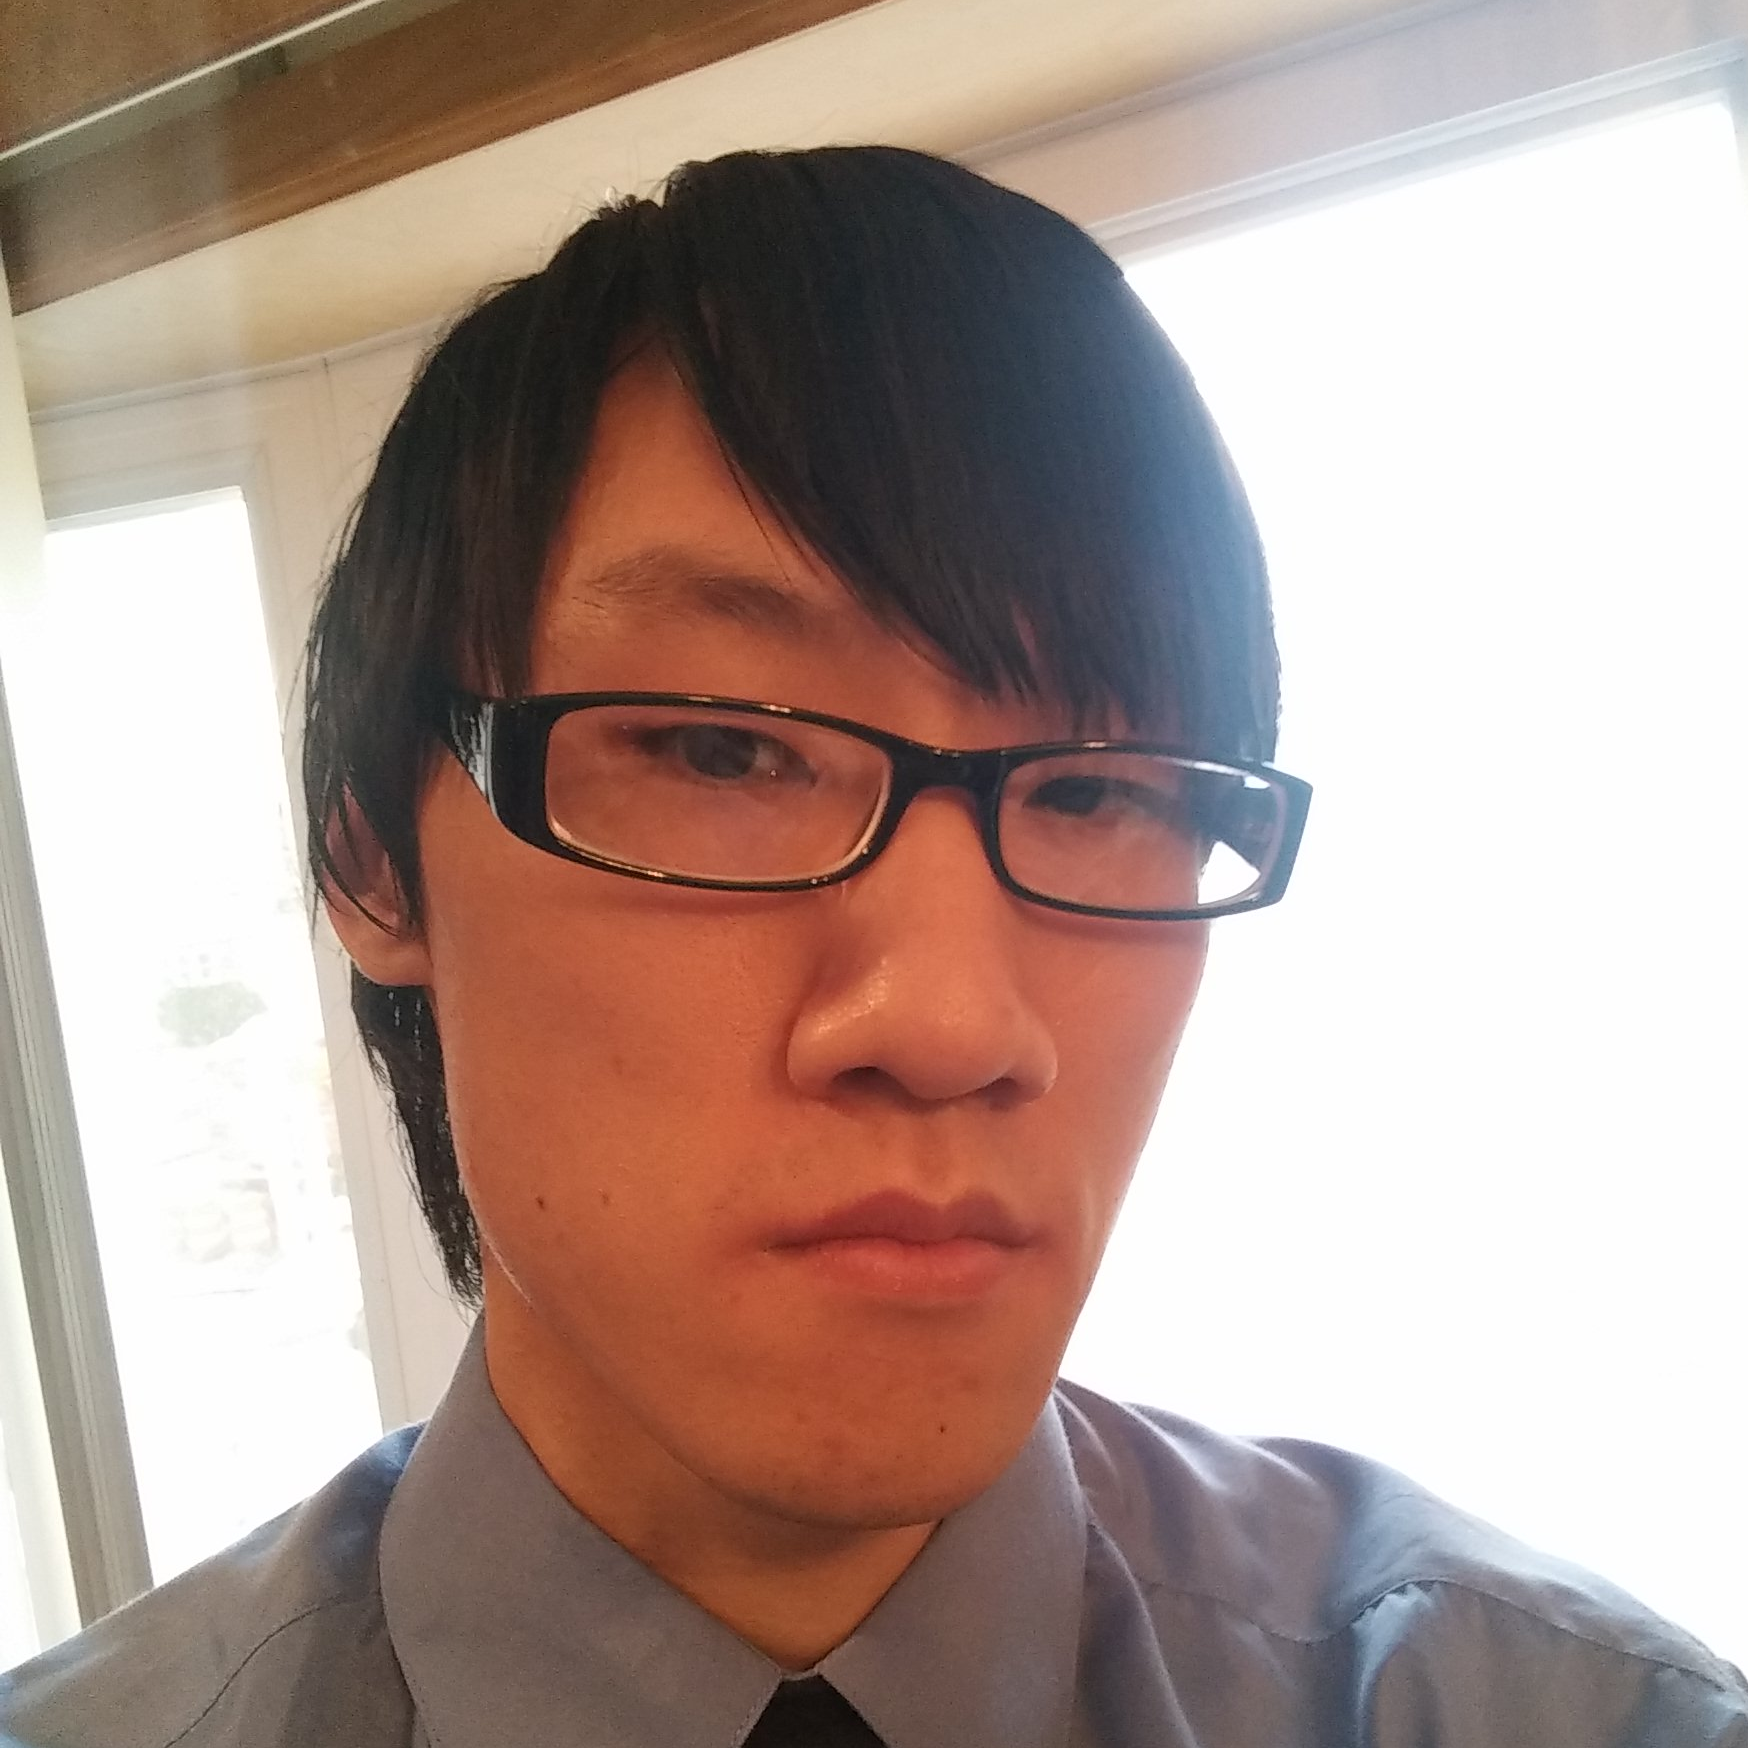
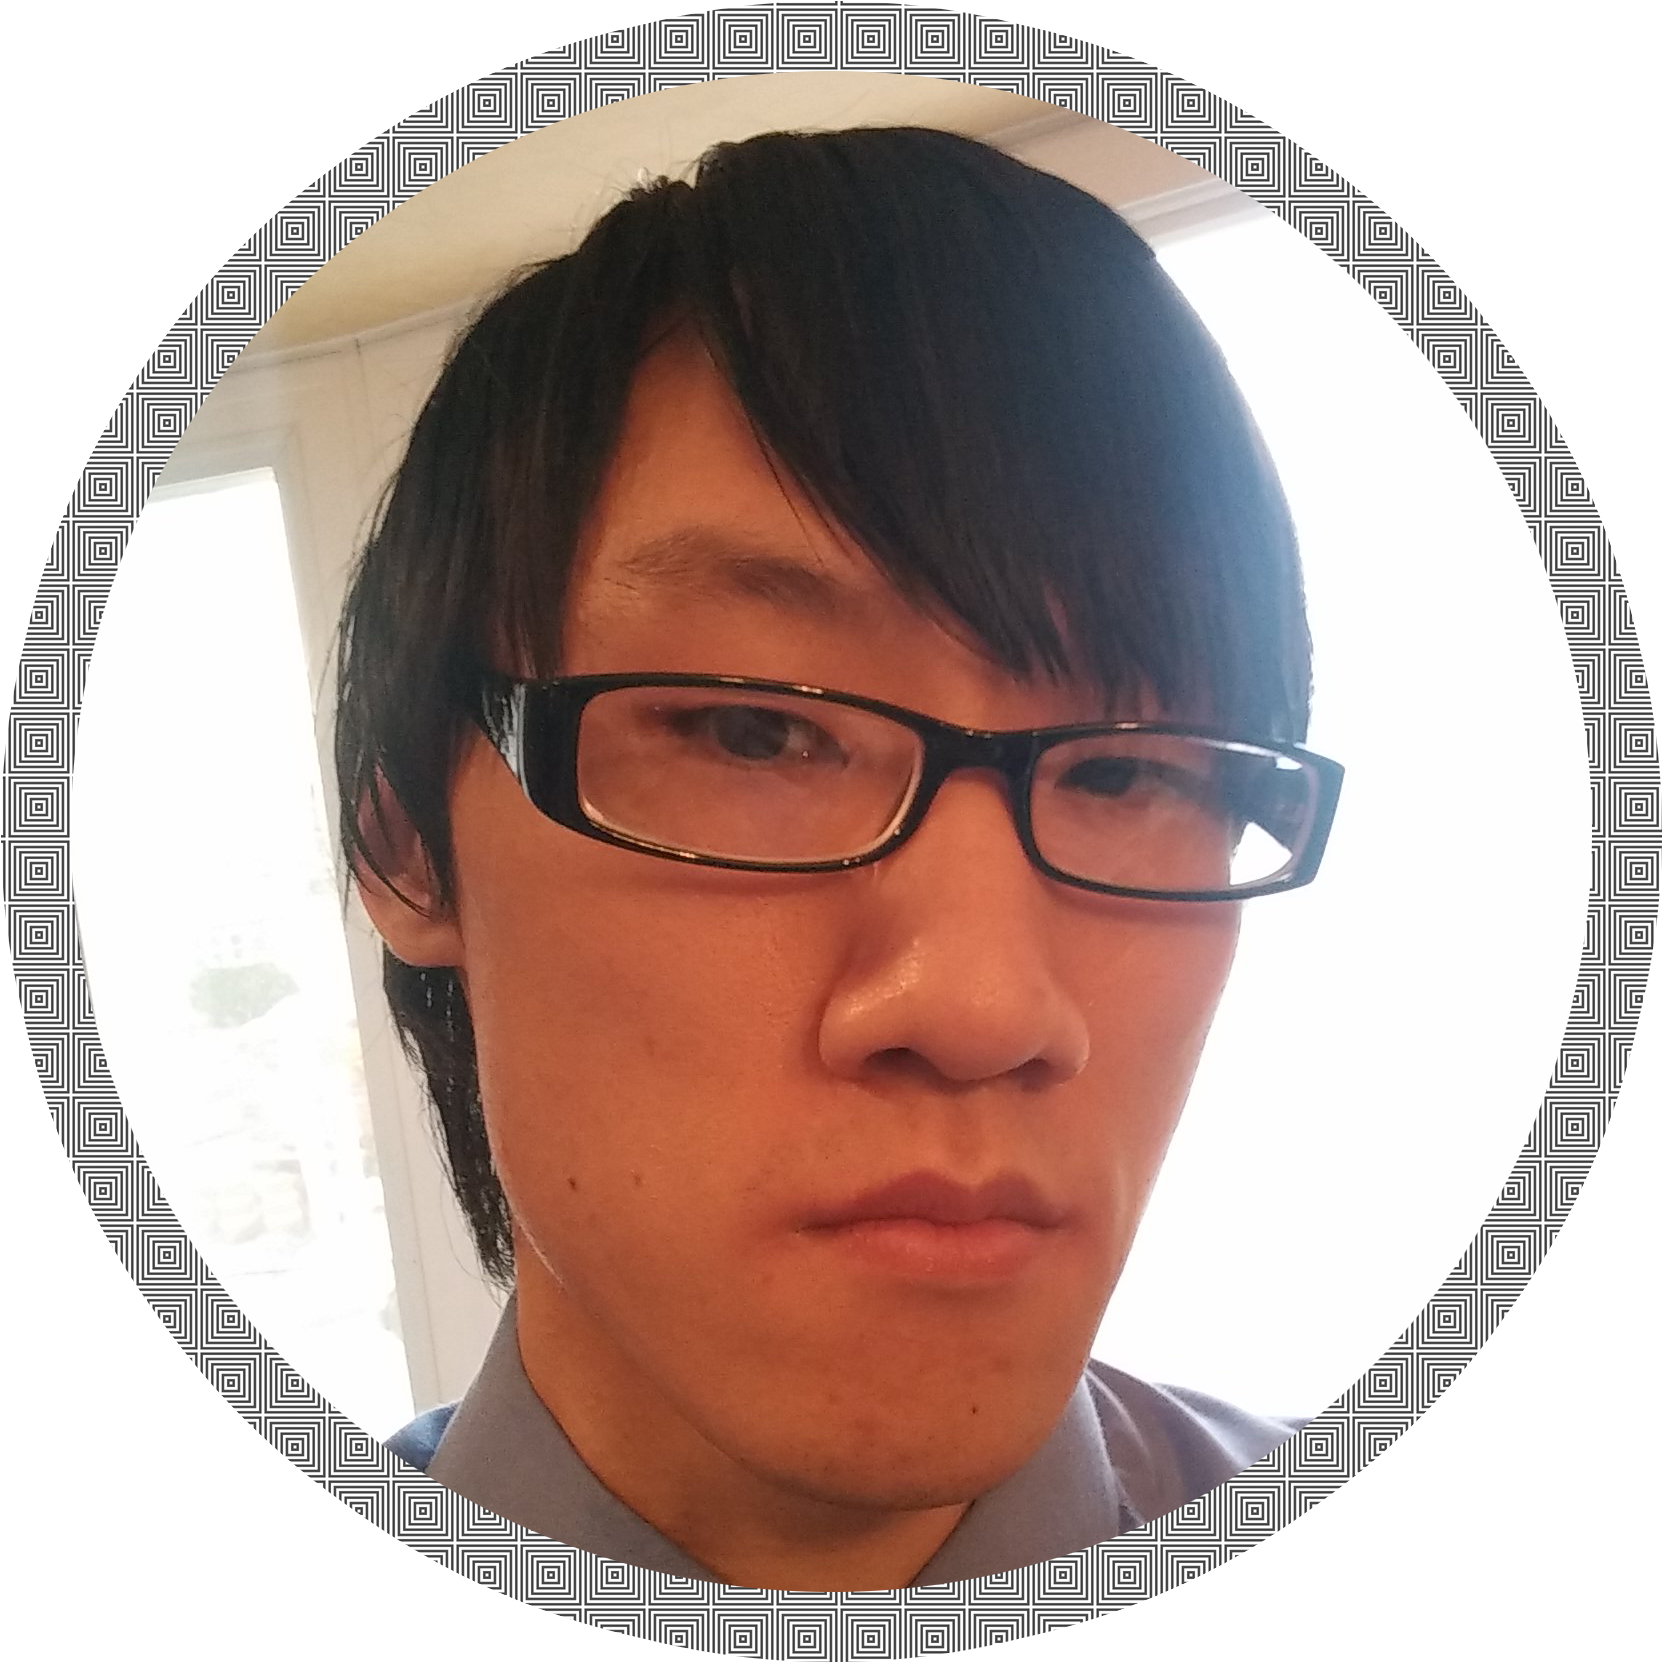
Update Page

diff --git a/style.css b/style.css
@@ -101,7 +101,7 @@ footer {
 }
 
 .profile {
-  width: 15em;
+  width: 18em;
 }
 
 .profiledesc {
@@ -120,8 +120,8 @@ footer {
   padding: 10px 20px 20px;
   margin: 0;
   font-size: 1.3em;
-  margin-left: 30%;
-  margin-right: 30%;
+  margin-left: 25%;
+  margin-right: 25%;
   text-align: center;
 }
 
